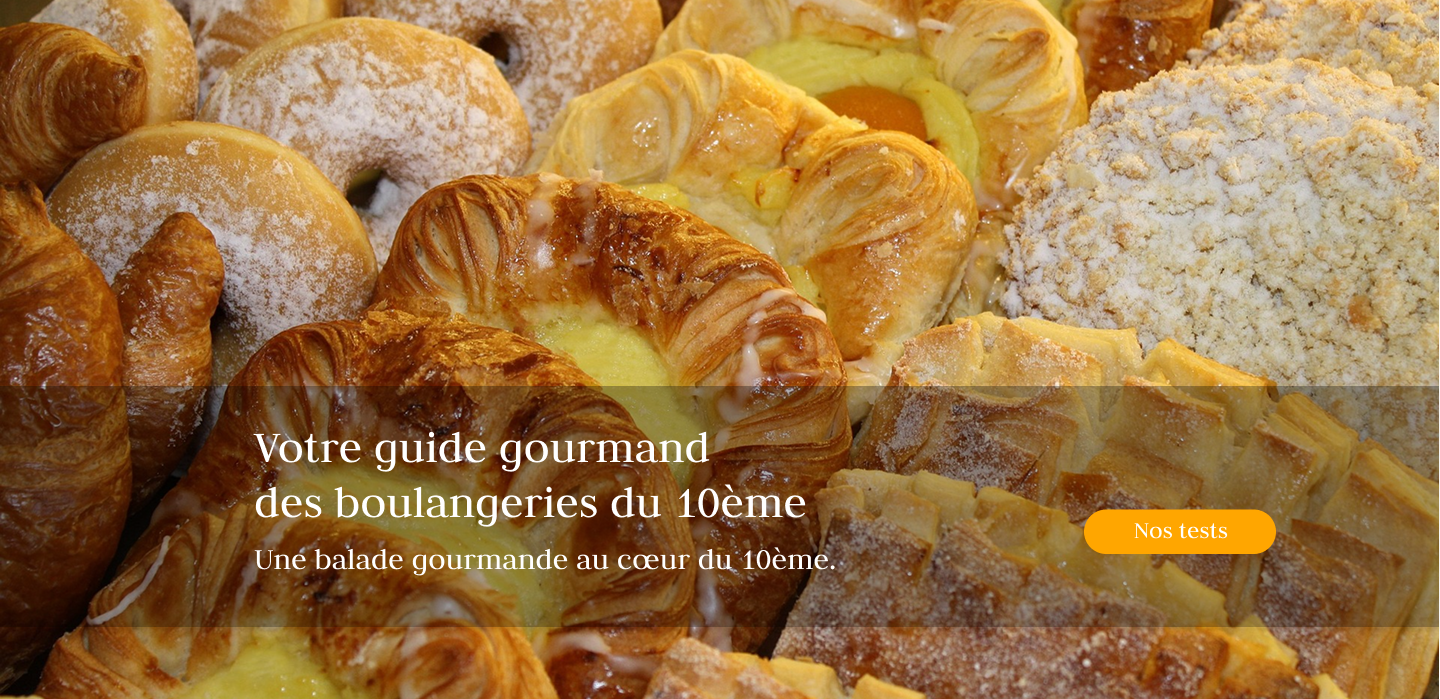
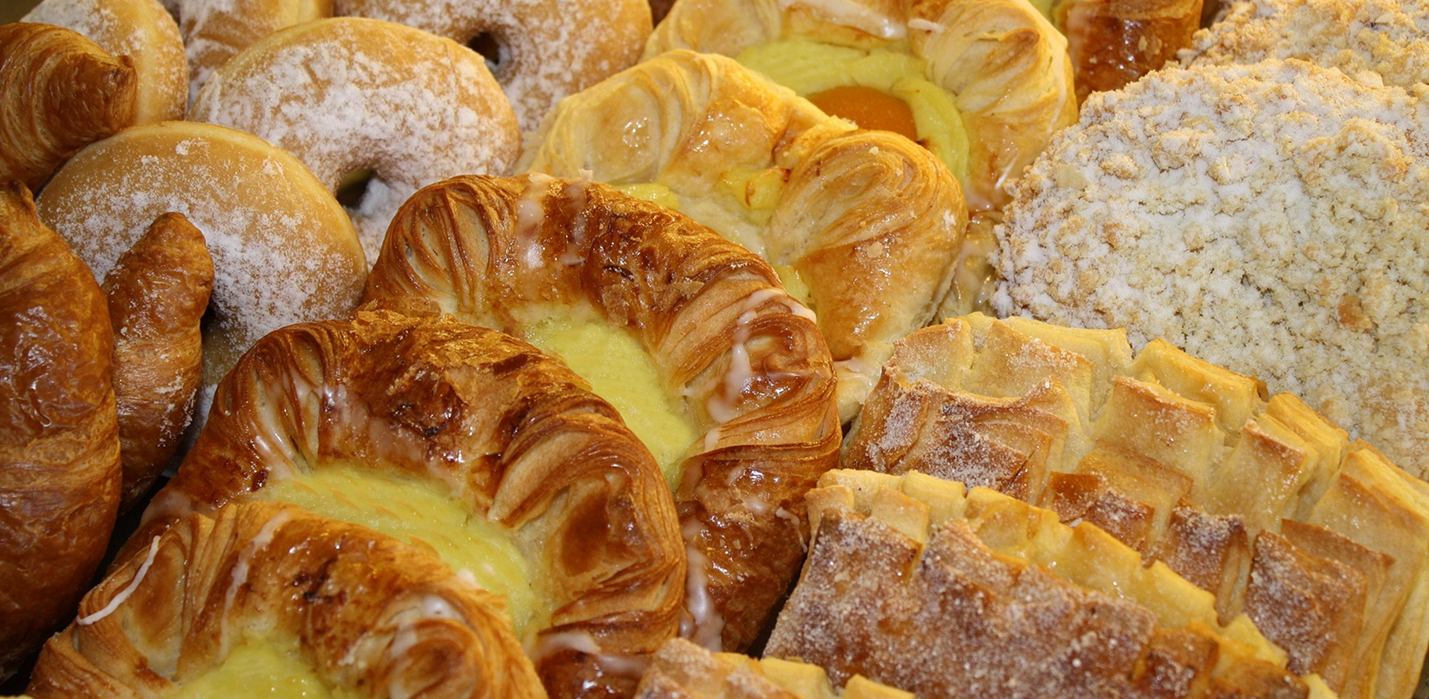
header style + html

diff --git a/assets/index.html b/assets/index.html
@@ -2,50 +2,90 @@
 <html lang="en">
   <head>
     <meta charset="UTF-8" />
-    <meta
-      name="viewport"
-      content="width=device-width, initial-scale=1.0"
-    />
+    <meta name="viewport" content="width=device-width, initial-scale=1.0" />
     <title>Document</title>
-    <link
-      rel="stylesheet"
-      href="./styles/index.css"
-    />
+    <link rel="stylesheet" href="./styles/index.css" />
   </head>
   <!--   hover faire comme scss-->
-  ssh-keygen -t ed25519 -C "email_du_deuxieme_compte@example.com" -f ~/.ssh/id_ed25519_second
-
   <body>
     <header>
       <nav>
-        <img
-          src="/assets/images/logo.png"
-          alt="Logo"
-        />
-        <ul>
-          <li>accueil</li>
-          <li>qui sommes-nous ?</li>
-          <li>blog</li>
-          <li>boulangeries</li>
-        </ul>
-        <div class="button">
-          <span>En savoir plus</span>
+        <div class="nav-component">
+          <div class="container-img">
+            <img src="/assets/images/logo.png" alt="Logo" id="logo" />
+          </div>
+          <ul>
+            <li>accueil</li>
+            <li>qui sommes-nous ?</li>
+            <li>blog</li>
+            <li>boulangeries</li>
+          </ul>
+          <div class="button-container">
+            <span class="button">En savoir plus</span>
+          </div>
         </div>
       </nav>
       <div class="Affiche"></div>
     </header>
     <main>
-      <h1 class="title">boulangeries à la une :</h1>
-      <div class="main-container">
-        <div class="container">
-          <img
-            src="./images/blg1.png"
-            alt=""
-          />
+      <div class="main-container1">
+        <h1 class="title">boulangeries à la une :</h1>
+        <div class="company">
+          <div class="company-container">
+            <img src="./images/blg1.png" alt="Affiche-boulangerie" />
+            <span>Les bons copains</span>
+          </div>
+          <div class="company-container">
+            <img src="./images/blg2.png" alt="Affiche-boulangerie" />
+            <span>Chez Mich et Michou</span>
+          </div>
+          <div class="company-container">
+            <img src="./images/blg3.png" alt="Affiche-boulangerie" />
+            <span>Tradition Royale</span>
+          </div>
         </div>
-        <div class="container"></div>
-        <div class="container"></div>
+      </div>
+      <div class="main-container2">
+        <h2 class="title">Nos Boulangeries visitées : :</h2>
+        <div class="Card">
+          <div class="button">
+            <span>Découvrir</span>
+          </div>
+        </div>
+      </div>
+      <div class="main-container3">
+        <h3 class="title">Les produits de boulangerie testés :</h3>
+        <div class="products">
+          <div class="products-container">
+            <img src="./images/produits1.png" alt="Chausson au pommes" />
+            <div>
+              <p>Le chausson aux pommes de chez POMPOMBOUL</p>
+              <p>Un feuilleté finement élaboré qui ne laisse pas ...</p>
+            </div>
+          </div>
+        </div>
+        <div class="products-container">
+          <img src="./images/produits2.png" alt="Le pain aux raisins" />
+          <p>Le pain aux raisins de chez BOULANGERIE ...</p>
+          <p>Croustillant et gourmand avec sa crème pâtissière ...</p>
+        </div>
+        <div class="products-container">
+          <img src="./images/produits3.png" alt="Le pain au chocolat" />
+          <p>Le pain au chocolat de chez POMPOMBOUL</p>
+          <p>Du bon beurre et du vrai chocolat émanent du pain...</p>
+        </div>
       </div>
     </main>
+    <footer>
+      <h4 class="title">Notre groupe de testeurs :</h4>
+      <div class="tester">
+        <div class="tester-container">
+          <img src="./images/testeur1.png" alt="Company-testeur" />
+          <img src="./images/testeur2.png" alt="Company-testeur" />
+          <img src="./images/testeur3.png" alt="Company-testeur" />
+          <img src="./images/testeur4.png" alt="Company-testeur" />
+        </div>
+      </div>
+    </footer>
   </body>
 </html>

diff --git a/assets/styles/index.css b/assets/styles/index.css
@@ -12,6 +12,12 @@ body {
   box-sizing: border-box;
 }
 
+ul li {
+  list-style-type: none;
+  text-transform: uppercase;
+  font-size: 1.2rem;
+}
+
 .title {
   color: #844f00;
   font-family: judson, sans-serif;
@@ -22,6 +28,43 @@ body {
   font-family: judson, sans-serif;
   background: #ffa600;
   color: #ffffff;
+  font-size: 1.1rem;
   text-align: center;
-  padding: 2%;
+  padding: 14px;
+  width: 150px;
+  border-radius: 20px;
+}
+
+.Affiche {
+  background: url(../images/affiche.png) center/cover;
+  height: 700px;
+  width: 100%;
+}
+
+header nav {
+  background-color: #675b4d;
+  padding: 15px;
+}
+header .nav-component {
+  display: flex;
+  align-items: center;
+  margin: 0 auto;
+  width: 80%;
+}
+header .nav-component .container-img {
+  width: 11%;
+}
+header .nav-component ul {
+  display: flex;
+  align-items: center;
+  justify-content: space-between;
+  width: 70%;
+}
+header .nav-component ul li {
+  color: #ffffff;
+}
+header .nav-component .button-container {
+  display: flex;
+  justify-content: right;
+  width: 18%;
 }/*# sourceMappingURL=index.css.map */

diff --git a/assets/styles/_settings.scss b/assets/styles/_settings.scss
@@ -21,6 +21,11 @@ body {
   padding: 0;
   box-sizing: border-box;
 }
+ul li {
+  list-style-type: none;
+  text-transform: uppercase;
+  font-size: 1.2rem;
+}
 .title {
   color: $CouleurTitre;
   font-family: $fontJudson;
@@ -30,6 +35,14 @@ body {
   font-family: $fontJudson;
   background: $orange;
   color: $blanc;
+  font-size: 1.1rem;
   text-align: center;
-  padding: 2%;
+  padding: 14px;
+  width: 150px;
+  border-radius: 20px;
+}
+.Affiche {
+  background: url(../images/affiche.png) center/cover;
+  height: 700px;
+  width: 100%;
 }

diff --git a/assets/styles/layout/_header.scss b/assets/styles/layout/_header.scss
@@ -1,2 +1,31 @@
 header {
+  nav {
+    background-color: $Marron;
+    padding: 15px;
+  }
+  .nav-component {
+    display: flex;
+    align-items: center;
+    margin: 0 auto;
+    width: 80%;
+    .container-img {
+      width: 11%;
+    }
+    ul {
+      display: flex;
+      align-items: center;
+      justify-content: space-between;
+      width: 70%;
+    }
+    ul li {
+      color: $blanc;
+    }
+    .button-container {
+      display: flex;
+      justify-content: right;
+      width: 18%;
+    }
+  }
+  .Affiche {
+  }
 }
